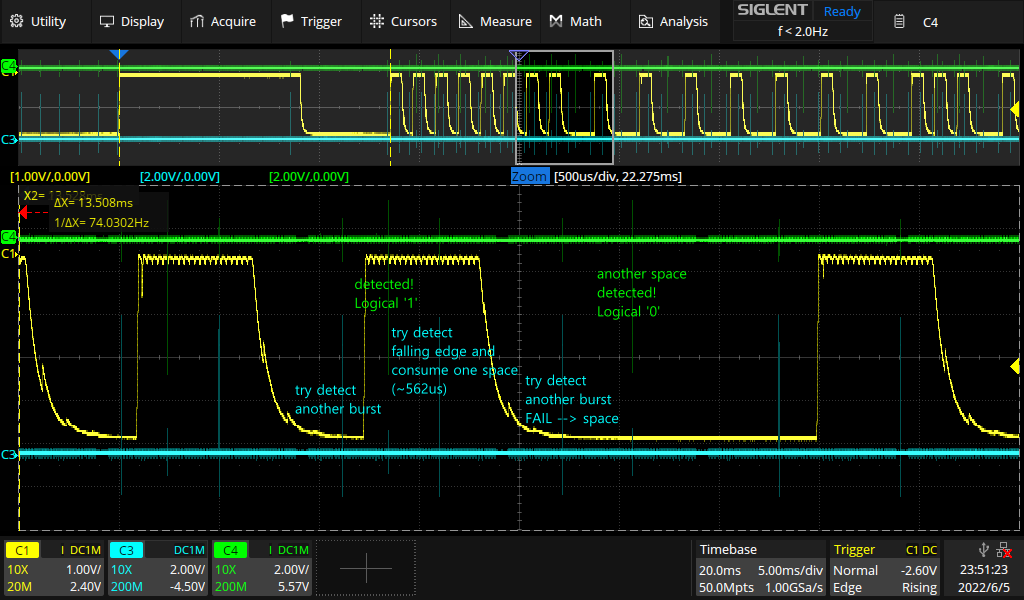
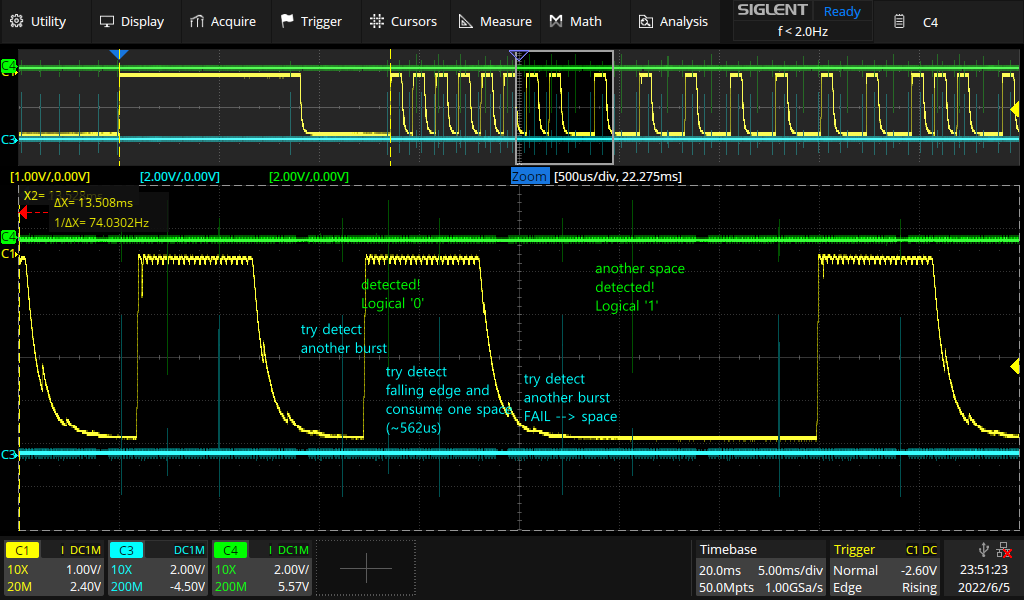
Stupid confusion 0 <> 1

Changed region(s): [[0.2812, 0.54, 0.625, 0.72], [0.5625, 0.42, 0.6875, 0.54], [0.3438, 0.45, 0.4062, 0.54]]

diff --git a/src/main.cpp b/src/main.cpp
@@ -124,13 +124,13 @@ bool decodeStream(uint8_t *addr, uint8_t *data) {
     while (idx != -1 && !streamTimer.expired()) {
         // try consume trailing mark edge
         if (consumeBurstMarkEdge()) {
-            // we have 'burst': 1
-            raw |= (((uint32_t) 1) << idx--);
+            // we have 'burst': 0
+            --idx;
             BLINK_CH4();
             consumeBurstRemaining();
         } else {
-            // we have 'space': 0
-            --idx;
+            // we have 'space': 1
+            raw |= (((uint32_t) 1) << idx--);
             BLINK_CH4();
             RETAIN_NMARK_OR_FAIL(700); // consume remaining 'space'
             CONSUME_BURST_OR_FAIL();
